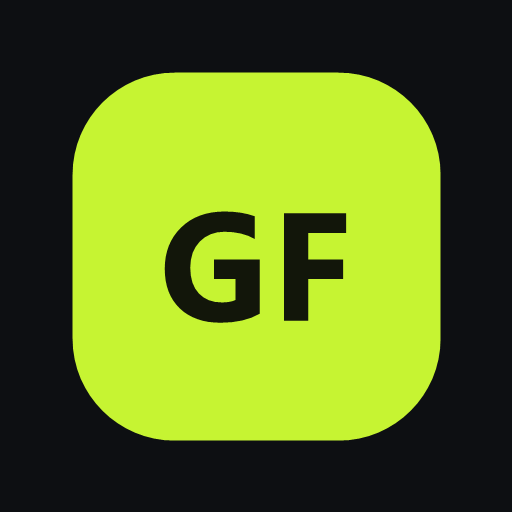
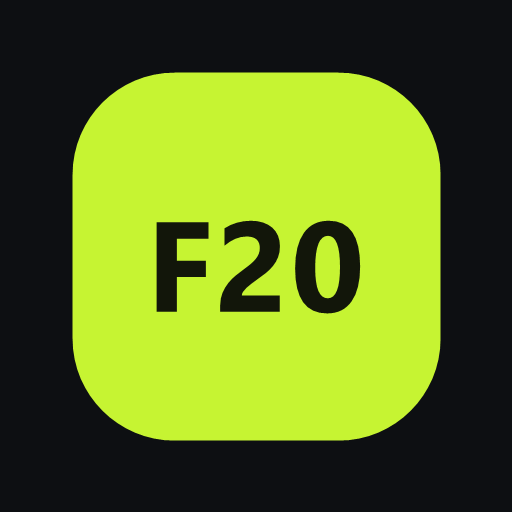
Add files via upload
Change Name

Changed region(s): [[0.2812, 0.4062, 0.7188, 0.6562]]

diff --git a/js/views/profile.js b/js/views/profile.js
@@ -21,7 +21,7 @@ export default function profile(el, [param]) {
   el.innerHTML = `
     ${topbar('Profil')}
     <div class="card hero row gap">
-      <div class="logo" style="width:60px;height:60px;font-size:26px;border-radius:18px">GF</div>
+      <div class="logo" style="width:60px;height:60px;font-size:20px;border-radius:18px">F20</div>
       <div><h2>${esc(GOAL_NAMES[p.goal])}</h2><p class="muted">${esc(LEVEL_NAMES[p.level])} · ${age(p.birthday)} Jahre · ${p.height} cm</p></div>
     </div>
 
@@ -48,7 +48,7 @@ export default function profile(el, [param]) {
 
     <div class="section-title"><h2>Über</h2></div>
     <div class="card">
-      <p><b>Gregor Fit</b> <span class="muted">Version ${APP_VERSION}</span></p>
+      <p><b>FITinMYTWEENTY</b> <span class="muted">Version ${APP_VERSION}</span></p>
       <p class="muted mt" style="font-size:14px">Alle Daten werden ausschließlich lokal auf diesem Gerät gespeichert. Die App sendet nichts an fremde Server und funktioniert vollständig offline.</p>
       <p class="muted mt" style="font-size:14px">Die App ersetzt keine ärztliche oder physiotherapeutische Beratung. Bei Schmerzen oder Vorerkrankungen bitte vor dem Training abklären lassen.</p>
       <p class="muted mt" style="font-size:14px">📱 Tipp: Exportiere regelmäßig eine Sicherung, z. B. in iCloud Drive.</p>
@@ -93,11 +93,11 @@ export default function profile(el, [param]) {
 
 async function exportData() {
   const json = store.exportJSON();
-  const name = `gregor-fit-sicherung-${todayKey()}.json`;
+  const name = `fitinmytweenty-sicherung-${todayKey()}.json`;
   const file = new File([json], name, { type: 'application/json' });
   try {
     if (navigator.canShare?.({ files: [file] })) {
-      await navigator.share({ files: [file], title: 'Gregor Fit Sicherung' });
+      await navigator.share({ files: [file], title: 'FITinMYTWEENTY Sicherung' });
       return;
     }
   } catch (e) {

diff --git a/css/app.css b/css/app.css
@@ -189,7 +189,7 @@ input[type=range] { width: 100%; accent-color: var(--accent); height: 30px; }
 .daypick button { border: 0; border-radius: 12px; padding: 14px 0; background: var(--card); font-weight: 700; cursor: pointer; color: var(--muted); }
 .daypick button.on { background: var(--accent); color: var(--accent-ink); }
 .splash { display: flex; flex-direction: column; align-items: center; justify-content: center; text-align: center; min-height: 70vh; gap: 18px; }
-.logo { width: 96px; height: 96px; border-radius: 28px; background: var(--accent); color: var(--accent-ink); display: grid; place-items: center; font-size: 40px; font-weight: 900; letter-spacing: -0.05em; }
+.logo { width: 96px; height: 96px; border-radius: 28px; background: var(--accent); color: var(--accent-ink); display: grid; place-items: center; font-size: 34px; font-weight: 900; letter-spacing: -0.05em; }
 .calc-anim { width: 120px; height: 120px; border-radius: 50%; border: 6px solid var(--card2); border-top-color: var(--accent); animation: spin 1s linear infinite; }
 @keyframes spin { to { transform: rotate(360deg); } }
 

diff --git a/js/views/onboarding.js b/js/views/onboarding.js
@@ -64,8 +64,8 @@ const STEPS = [
   {
     id: 'welcome',
     render: () => `<div class="splash">
-      <div class="logo">GF</div>
-      <h1>Gregor Fit</h1>
+      <div class="logo">F20</div>
+      <h1>FITinMYTWEENTY</h1>
       <p class="muted" style="max-width:300px">Dein persönlicher Trainingsplan für Kraft, Cardio, Ernährung und Mobility – passend zu deinem Körper und Alltag.</p>
       <p class="dim" style="font-size:13px">Alle Daten bleiben nur auf diesem Gerät.</p>
     </div>`,

diff --git a/js/store.js b/js/store.js
@@ -74,7 +74,7 @@ export function exportJSON() {
 export function importJSON(text) {
   const data = JSON.parse(text);
   if (!data || typeof data !== 'object' || !('version' in data)) {
-    throw new Error('Keine gültige Gregor-Fit-Sicherung');
+    throw new Error('Keine gültige FITinMYTWEENTY-Sicherung');
   }
   state = { ...emptyState(), ...data };
   save();
